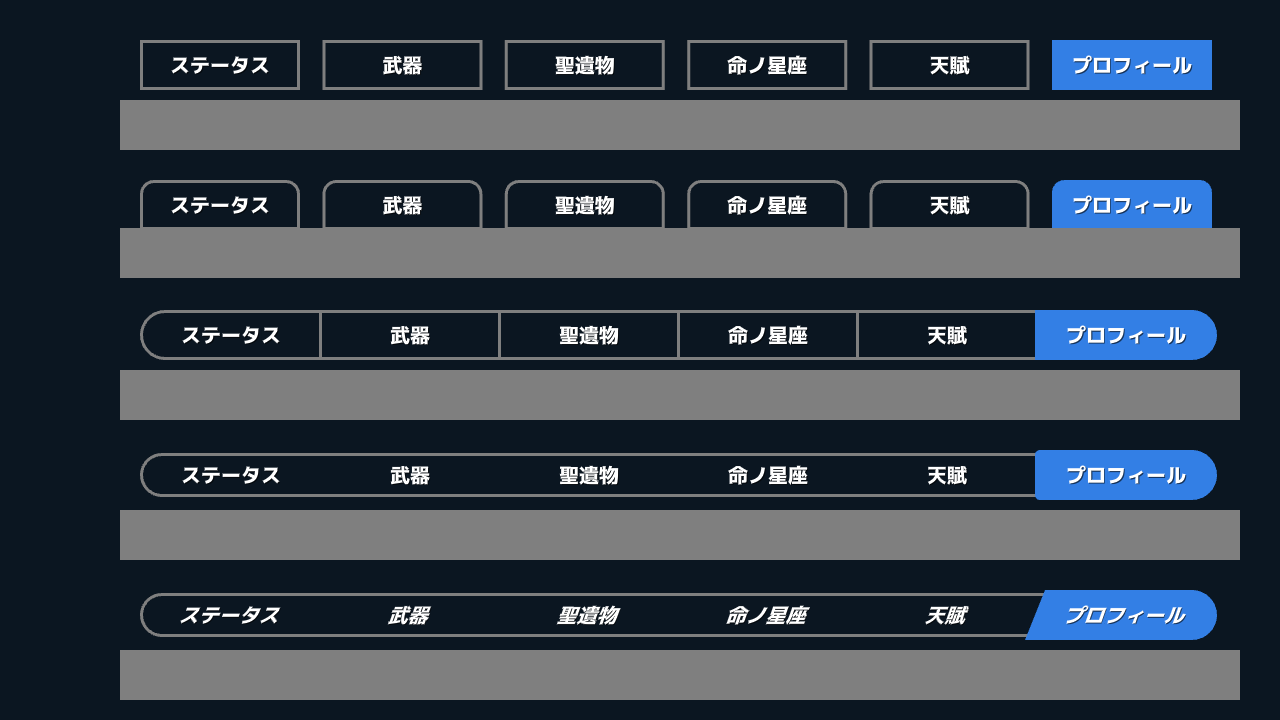
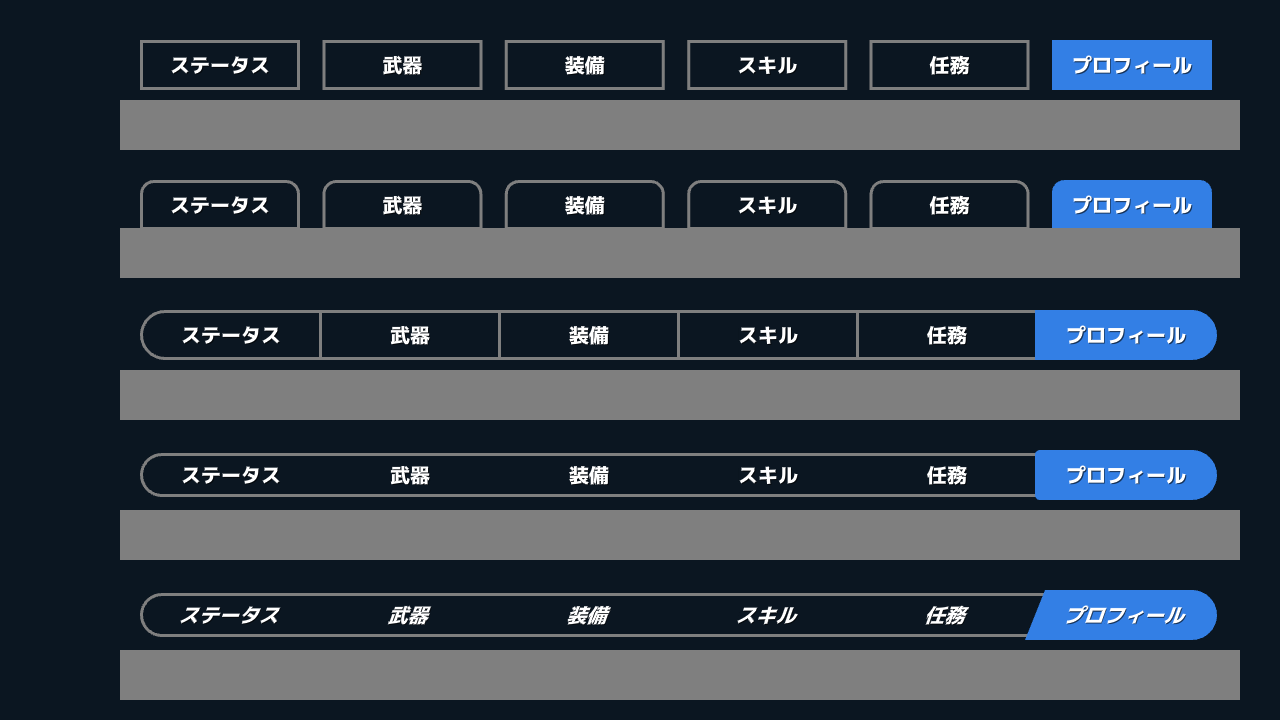
update

diff --git a/Samples/TabSample/Main.cpp b/Samples/TabSample/Main.cpp
@@ -344,7 +344,7 @@ void Main()
 {
 	Window::Resize(1280, 720);
 	const Font font{ FontMethod::MSDF, 48, Typeface::Heavy };
-	const Array<String> items = { U"ステータス", U"武器", U"聖遺物", U"命ノ星座", U"天賦", U"プロフィール" };
+	const Array<String> items = { U"ステータス", U"武器", U"装備", U"スキル", U"任務", U"プロフィール" };
 	constexpr ColorF TabColor{ 0.2, 0.5, 0.9 };
 	constexpr ColorF TabOutlineColor{ 0.5 };
 	constexpr ColorF ContentColor{ 0.5 };
